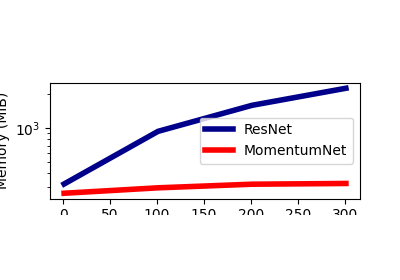
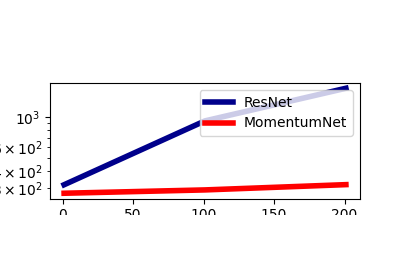
Generate Pelican site [ci skip]

diff --git a/searchindex.js b/searchindex.js
@@ -1,1 +1,1 @@
-Search.setIndex({docnames:["api","auto_examples/index","auto_examples/plot_dynamics_1D","auto_examples/plot_memory","auto_examples/sg_execution_times","generated/momentumnet.Mom","generated/momentumnet.MomentumMemory","generated/momentumnet.MomentumNet","index"],envversion:{"sphinx.domains.c":2,"sphinx.domains.changeset":1,"sphinx.domains.citation":1,"sphinx.domains.cpp":3,"sphinx.domains.index":1,"sphinx.domains.javascript":2,"sphinx.domains.math":2,"sphinx.domains.python":3,"sphinx.domains.rst":2,"sphinx.domains.std":2,"sphinx.ext.intersphinx":1,sphinx:56},filenames:["api.rst","auto_examples/index.rst","auto_examples/plot_dynamics_1D.rst","auto_examples/plot_memory.rst","auto_examples/sg_execution_times.rst","generated/momentumnet.Mom.rst","generated/momentumnet.MomentumMemory.rst","generated/momentumnet.MomentumNet.rst","index.rst"],objects:{"momentumnet.Mom":{__init__:[5,1,1,""]},"momentumnet.MomentumMemory":{__init__:[6,1,1,""]},"momentumnet.MomentumNet":{__init__:[7,1,1,""]},momentumnet:{Mom:[5,0,1,""],MomentumMemory:[6,0,1,""],MomentumNet:[7,0,1,""]}},objnames:{"0":["py","class","Python class"],"1":["py","method","Python method"]},objtypes:{"0":"py:class","1":"py:method"},terms:{"0":[2,3,4,5,7],"00":4,"01":2,"030":2,"04":4,"05":4,"053":2,"07870":8,"0x7fbc90578b30":[2,3],"1":[2,3,7,8],"100":[2,3],"1000":2,"102":4,"104":2,"1100":2,"112":2,"1200":2,"122":2,"124":2,"126":2,"130":2,"1300":2,"131":2,"135":2,"137":2,"138":2,"139":2,"1400":2,"143":2,"144":2,"15":2,"1500":2,"16":2,"1600":2,"162":2,"163":2,"164":2,"165":2,"169":2,"1700":2,"174":2,"1800":2,"1900":2,"1d":[1,4],"2":[2,3],"20":2,"200":2,"2000":2,"2001":2,"2021":8,"203":2,"205":[2,4],"2102":8,"26":[3,4],"3":2,"300":2,"301":2,"33":[2,4],"3f":2,"4":[2,3],"40":2,"400":2,"401":3,"5":[2,3],"50":3,"500":[2,3],"600":2,"700":2,"8":[2,3],"800":2,"830":2,"897":[3,4],"900":2,"95":2,"99":[2,3],"class":[0,5,6,7],"do":8,"float":2,"function":[2,3,5,7],"import":[2,3,8],"peyr\u00e9":8,"return":2,If:8,In:8,Then:8,To:8,__call__:[5,7],__init__:[5,6,7],__main__:3,__name__:3,_c:[2,3],ab:8,ablin:[2,3,8],accur:6,admin:8,all:1,anaconda:8,ani:8,append:3,appli:6,arang:[2,3],arg:6,arxiv:8,attribut:[5,6,7],author:[2,3],auto_exampl:4,auto_examples_jupyt:1,auto_examples_python:1,backward:[2,3],bbox_extra_artist:3,bbox_inch:3,blondel:8,both:[5,7],c:8,can:8,check:8,click:[2,3],cm:2,code:[1,2,3],color:[2,3],colormap:2,compar:[2,3],comput:8,consumpt:[1,4],cpu:3,cuda:3,cycler:2,d:[2,3],darkblu:3,def:[2,3],depend:8,depth:[2,3],devic:3,dirty_tensor:6,distribut:8,document:8,download:[1,2,3],dynam:[1,4],e:8,els:3,error:8,everyth:8,exampl:[2,3],execut:4,fals:[2,3,7],figsiz:[2,3],file:4,fine:8,first:8,flag:8,from:[2,3],full:[2,3],function_r:[2,3],gabriel:8,galleri:[2,3],gamma:[2,3,5,7],gca:2,gener:[1,2,3],gist_ncar:2,github:8,give:8,h:2,have:8,help:6,here:[2,3],hidden:[2,3],http:8,i:2,icml:8,init_funct:[5,7],init_spe:[2,3,5,7],initi:[5,6,7],input:2,intern:[5,7],invers:5,ipynb:[2,3],is_avail:3,isdir:[2,3],issu:8,item:2,itr:2,its:8,jet:2,jupyt:[1,2,3],kwarg:6,label:3,learn_gamma:[2,3,7],legend:3,librari:8,licens:[2,3],linear:[2,3],linewidth:3,linspac:2,log:3,loss:[2,3],lr:2,lw:2,make_data_1d:2,manual_se:[2,3],mark_shared_storag:6,materialize_grad:6,mathieu:8,matplotlib:[2,3,8],max:3,mb:4,mean:[2,3],mem_list_mom:3,mem_list_r:3,memori:[1,4],memory_profil:3,memory_theori:3,memory_usag:3,messag:8,metadata:6,method:[5,6,7],mib:3,michael:[2,3,8],minut:[2,3],mit:[2,3],mkdir:[2,3],modul:[5,7],mom:3,mom_net:[2,3],mom_net_dynamics_1d:2,momentum:[2,3],momentumnet:[2,3,8],n_iter:[2,3,7],n_plot:2,name:6,need:8,needs_input_grad:6,net:3,network:8,neural:8,next_funct:6,nn:[2,3,5,7],no_grad:2,non_differenti:6,none:[5,7],notebook:[1,2,3],np:[2,3],num_plot:2,numpi:[2,3,8],object:[2,3],optim:2,org:8,os:[2,3],otherwis:8,out:[2,3],output:2,path:[2,3],pdf:[2,3],picard:8,pierr:[2,3,8],pip:8,plot:[1,4],plot_dynamics_1d:[2,4],plot_memori:[3,4],plt:[2,3],pred:2,pred_:2,preds_r:2,print:2,privileg:8,proc:8,provid:8,py:[2,3,4],pyplot:[2,3],python:[1,2,3,8],rand:3,rang:2,recommend:8,red:3,register_hook:6,requires_grad:6,res_net:[2,3],res_net_dynamics_1d:2,residu:8,resnet:[2,3],run:[2,3],s:2,sander:[2,3,8],saved_tensor:6,saved_vari:6,savefig:[2,3],script:[2,3],scriptmodul:[5,7],second:[2,3],see:6,self:6,sequenti:[2,3],set_prop_cycl:2,sgd:2,share:[5,7],share_memori:[5,7],should:8,signatur:6,sourc:[1,2,3],sphinx:[1,2,3],state:[5,7],step:2,tanh:[2,3],tensor:2,thi:[2,3,8],tight:3,time:[2,3],to_sav:6,torch:[2,3,8],total:[2,3,4],toy_dataset:2,tracker:8,train:[2,3],type:6,upgrad:8,us:[3,8],used_mem:3,user:8,view:2,we:8,when:3,work:8,x:[2,3],x_:[2,3],x_axi:2,xlabel:[2,3],xtick:2,y_:3,ylabel:[2,3],you:8,yscale:3,ytick:2,zero:2,zero_grad:2,zip:1},titles:["API Documentation","Examples Gallery","Plotting the dynamics in 1D","Plotting memory consumptions","Computation times","momentumnet.Mom","momentumnet.MomentumMemory","momentumnet.MomentumNet","Momentum ResNets"],titleterms:{"1d":2,api:[0,8],bug:8,cite:8,comput:4,consumpt:3,document:0,dynam:2,exampl:1,figur:[2,3],fix:[2,3],galleri:1,instal:8,memori:3,mom:5,momentum:[0,8],momentummemori:6,momentumnet:[5,6,7],network:0,paramet:[2,3],plot:[2,3],random:[2,3],report:8,reproduc:[2,3],residu:0,resnet:8,seed:[2,3],simul:[2,3],time:4}})
+Search.setIndex({docnames:["api","auto_examples/index","auto_examples/plot_dynamics_1D","auto_examples/plot_memory","auto_examples/sg_execution_times","generated/momentumnet.Mom","generated/momentumnet.MomentumMemory","generated/momentumnet.MomentumNet","index"],envversion:{"sphinx.domains.c":2,"sphinx.domains.changeset":1,"sphinx.domains.citation":1,"sphinx.domains.cpp":3,"sphinx.domains.index":1,"sphinx.domains.javascript":2,"sphinx.domains.math":2,"sphinx.domains.python":3,"sphinx.domains.rst":2,"sphinx.domains.std":2,"sphinx.ext.intersphinx":1,sphinx:56},filenames:["api.rst","auto_examples/index.rst","auto_examples/plot_dynamics_1D.rst","auto_examples/plot_memory.rst","auto_examples/sg_execution_times.rst","generated/momentumnet.Mom.rst","generated/momentumnet.MomentumMemory.rst","generated/momentumnet.MomentumNet.rst","index.rst"],objects:{"momentumnet.Mom":{__init__:[5,1,1,""]},"momentumnet.MomentumMemory":{__init__:[6,1,1,""]},"momentumnet.MomentumNet":{__init__:[7,1,1,""]},momentumnet:{Mom:[5,0,1,""],MomentumMemory:[6,0,1,""],MomentumNet:[7,0,1,""]}},objnames:{"0":["py","class","Python class"],"1":["py","method","Python method"]},objtypes:{"0":"py:class","1":"py:method"},terms:{"0":[2,3,4,5,7],"00":4,"01":[2,4],"02":4,"030":2,"053":2,"07870":8,"0x7ff76f369b30":[2,3],"1":[2,3,7,8],"100":[2,3],"1000":2,"104":2,"1100":2,"112":2,"1200":2,"122":2,"124":2,"126":2,"130":2,"1300":2,"131":2,"133":[3,4],"135":2,"137":2,"138":2,"139":2,"1400":2,"143":2,"144":2,"15":2,"1500":2,"16":2,"1600":2,"162":2,"163":2,"164":2,"165":2,"169":2,"1700":2,"174":2,"1800":2,"1900":2,"1d":[1,4],"2":[2,3],"20":2,"200":2,"2000":2,"2001":2,"2021":8,"203":2,"2102":8,"28":[2,4],"29":4,"3":2,"300":[2,3],"301":2,"3f":2,"4":[2,3],"40":2,"400":2,"451":[2,4],"5":[2,3],"50":3,"500":[2,3],"584":4,"600":2,"700":2,"8":[2,3],"800":2,"830":2,"900":2,"95":2,"99":[2,3],"class":[0,5,6,7],"do":8,"float":2,"function":[2,3,5,7],"import":[2,3,8],"peyr\u00e9":8,"return":2,If:8,In:8,Then:8,To:8,__call__:[5,7],__init__:[5,6,7],__main__:3,__name__:3,_c:[2,3],ab:8,ablin:[2,3,8],accur:6,admin:8,all:1,anaconda:8,ani:8,append:3,appli:6,arang:[2,3],arg:6,arxiv:8,attribut:[5,6,7],author:[2,3],auto_exampl:4,auto_examples_jupyt:1,auto_examples_python:1,backward:[2,3],blondel:8,both:[5,7],c:8,can:8,check:8,click:[2,3],cm:2,code:[1,2,3],color:[2,3],colormap:2,compar:[2,3],comput:8,consumpt:[1,4],cpu:3,cuda:3,cycler:2,d:[2,3],darkblu:3,def:[2,3],depend:8,depth:[2,3],devic:3,dirty_tensor:6,distribut:8,document:8,download:[1,2,3],dynam:[1,4],e:8,els:3,error:8,everyth:8,exampl:[2,3],execut:4,fals:[2,3,7],figsiz:[2,3],file:4,fine:8,first:8,flag:8,from:[2,3],full:[2,3],function_r:[2,3],gabriel:8,galleri:[2,3],gamma:[2,3,5,7],gca:2,gener:[1,2,3],gist_ncar:2,github:8,give:8,h:2,have:8,help:6,here:[2,3],hidden:[2,3],http:8,i:2,icml:8,init_funct:[5,7],init_spe:[2,3,5,7],initi:[5,6,7],input:2,intern:[5,7],invers:5,ipynb:[2,3],is_avail:3,isdir:[2,3],issu:8,item:2,itr:2,its:8,jet:2,jupyt:[1,2,3],kwarg:6,label:3,learn_gamma:[2,3,7],legend:3,librari:8,licens:[2,3],linear:[2,3],linewidth:3,linspac:2,log:3,loss:[2,3],lr:2,lw:2,make_data_1d:2,manual_se:[2,3],mark_shared_storag:6,materialize_grad:6,mathieu:8,matplotlib:[2,3,8],max:3,mb:4,mean:[2,3],mem_list_mom:3,mem_list_r:3,memori:[1,4],memory_profil:3,memory_usag:3,messag:8,metadata:6,method:[5,6,7],mib:3,michael:[2,3,8],minut:[2,3],mit:[2,3],mkdir:[2,3],modul:[5,7],mom:3,mom_net:[2,3],mom_net_dynamics_1d:2,momentum:[2,3],momentumnet:[2,3,8],n_iter:[2,3,7],n_plot:2,name:6,need:8,needs_input_grad:6,net:3,network:8,neural:8,next_funct:6,nn:[2,3,5,7],no_grad:2,non_differenti:6,none:[5,7],notebook:[1,2,3],np:[2,3],num_plot:2,numpi:[2,3,8],object:[2,3],optim:2,org:8,os:[2,3],otherwis:8,out:[2,3],output:2,path:[2,3],pdf:2,pierr:[2,3,8],pip:8,plot:[1,4],plot_dynamics_1d:[2,4],plot_memori:[3,4],plt:[2,3],pred:2,pred_:2,preds_r:2,print:2,privileg:8,proc:8,provid:8,py:[2,3,4],pyplot:[2,3],python:[1,2,3,8],rand:3,rang:2,recommend:8,red:3,register_hook:6,requires_grad:6,res_net:[2,3],res_net_dynamics_1d:2,residu:8,resnet:[2,3],run:[2,3],s:2,sander:[2,3,8],saved_tensor:6,saved_vari:6,savefig:2,script:[2,3],scriptmodul:[5,7],second:[2,3],see:6,self:6,sequenti:[2,3],set_prop_cycl:2,sgd:2,share:[5,7],share_memori:[5,7],should:8,show:3,signatur:6,sourc:[1,2,3],sphinx:[1,2,3],state:[5,7],step:2,tanh:[2,3],tensor:2,thi:[2,3,8],time:[2,3],to_sav:6,torch:[2,3,8],total:[2,3,4],toy_dataset:2,tracker:8,train:[2,3],type:6,upgrad:8,us:[3,8],used_mem:3,user:8,view:2,we:8,when:3,work:8,x:[2,3],x_:[2,3],x_axi:2,xlabel:[2,3],xtick:2,y_:3,ylabel:[2,3],you:8,yscale:3,ytick:2,zero:2,zero_grad:2,zip:1},titles:["API Documentation","Examples Gallery","Plotting the dynamics in 1D","Plotting memory consumptions","Computation times","momentumnet.Mom","momentumnet.MomentumMemory","momentumnet.MomentumNet","Momentum ResNets"],titleterms:{"1d":2,api:[0,8],bug:8,cite:8,comput:4,consumpt:3,document:0,dynam:2,exampl:1,figur:[2,3],fix:[2,3],galleri:1,instal:8,memori:3,mom:5,momentum:[0,8],momentummemori:6,momentumnet:[5,6,7],network:0,paramet:[2,3],plot:[2,3],random:[2,3],report:8,reproduc:[2,3],residu:0,resnet:8,seed:[2,3],simul:[2,3],time:4}})

diff --git a/auto_examples/plot_memory.html b/auto_examples/plot_memory.html
@@ -145,13 +145,13 @@ to download the full example code</p>
 </pre></div>
 </div>
 <p class="sphx-glr-script-out">Out:</p>
-<div class="sphx-glr-script-out highlight-none notranslate"><div class="highlight"><pre><span></span>&lt;torch._C.Generator object at 0x7fbc90578b30&gt;
+<div class="sphx-glr-script-out highlight-none notranslate"><div class="highlight"><pre><span></span>&lt;torch._C.Generator object at 0x7ff76f369b30&gt;
 </pre></div>
 </div>
 </section>
 <section id="parameters-of-the-simulation">
 <h2>Parameters of the simulation<a class="headerlink" href="#parameters-of-the-simulation" title="Permalink to this headline">¶</a></h2>
-<div class="highlight-default notranslate"><div class="highlight"><pre><span></span><a href="https://numpy.org/doc/stable/reference/generated/numpy.ndarray.html#numpy.ndarray" title="numpy.ndarray" class="sphx-glr-backref-module-numpy sphx-glr-backref-type-py-class sphx-glr-backref-instance"><span class="n">Depths</span></a> <span class="o">=</span> <a href="https://numpy.org/doc/stable/reference/generated/numpy.arange.html#numpy.arange" title="numpy.arange" class="sphx-glr-backref-module-numpy sphx-glr-backref-type-py-function"><span class="n">np</span><span class="o">.</span><span class="n">arange</span></a><span class="p">(</span><span class="mi">1</span><span class="p">,</span> <span class="mi">401</span><span class="p">,</span> <span class="mi">100</span><span class="p">)</span>
+<div class="highlight-default notranslate"><div class="highlight"><pre><span></span><a href="https://numpy.org/doc/stable/reference/generated/numpy.ndarray.html#numpy.ndarray" title="numpy.ndarray" class="sphx-glr-backref-module-numpy sphx-glr-backref-type-py-class sphx-glr-backref-instance"><span class="n">Depths</span></a> <span class="o">=</span> <a href="https://numpy.org/doc/stable/reference/generated/numpy.arange.html#numpy.arange" title="numpy.arange" class="sphx-glr-backref-module-numpy sphx-glr-backref-type-py-function"><span class="n">np</span><span class="o">.</span><span class="n">arange</span></a><span class="p">(</span><span class="mi">1</span><span class="p">,</span> <span class="mi">300</span><span class="p">,</span> <span class="mi">100</span><span class="p">)</span>
 
 
 <a href="https://docs.python.org/3/library/functions.html#int" title="builtins.int" class="sphx-glr-backref-module-builtins sphx-glr-backref-type-py-class sphx-glr-backref-instance"><span class="n">hidden</span></a> <span class="o">=</span> <span class="mi">8</span>
@@ -213,15 +213,11 @@ to download the full example code</p>
     <a href="https://matplotlib.org/api/text_api.html#matplotlib.text.Text" title="matplotlib.text.Text" class="sphx-glr-backref-module-matplotlib-text sphx-glr-backref-type-py-class sphx-glr-backref-instance"><span class="n">y_</span></a> <span class="o">=</span> <a href="https://matplotlib.org/api/_as_gen/matplotlib.pyplot.ylabel.html#matplotlib.pyplot.ylabel" title="matplotlib.pyplot.ylabel" class="sphx-glr-backref-module-matplotlib-pyplot sphx-glr-backref-type-py-function"><span class="n">plt</span><span class="o">.</span><span class="n">ylabel</span></a><span class="p">(</span><span class="s2">&quot;Memory (MiB)&quot;</span><span class="p">)</span>
     <a href="https://matplotlib.org/api/text_api.html#matplotlib.text.Text" title="matplotlib.text.Text" class="sphx-glr-backref-module-matplotlib-text sphx-glr-backref-type-py-class sphx-glr-backref-instance"><span class="n">x_</span></a> <span class="o">=</span> <a href="https://matplotlib.org/api/_as_gen/matplotlib.pyplot.xlabel.html#matplotlib.pyplot.xlabel" title="matplotlib.pyplot.xlabel" class="sphx-glr-backref-module-matplotlib-pyplot sphx-glr-backref-type-py-function"><span class="n">plt</span><span class="o">.</span><span class="n">xlabel</span></a><span class="p">(</span><span class="s2">&quot;Depth&quot;</span><span class="p">)</span>
     <a href="https://matplotlib.org/api/_as_gen/matplotlib.pyplot.legend.html#matplotlib.pyplot.legend" title="matplotlib.pyplot.legend" class="sphx-glr-backref-module-matplotlib-pyplot sphx-glr-backref-type-py-function"><span class="n">plt</span><span class="o">.</span><span class="n">legend</span></a><span class="p">()</span>
-    <a href="https://matplotlib.org/api/_as_gen/matplotlib.pyplot.savefig.html#matplotlib.pyplot.savefig" title="matplotlib.pyplot.savefig" class="sphx-glr-backref-module-matplotlib-pyplot sphx-glr-backref-type-py-function"><span class="n">plt</span><span class="o">.</span><span class="n">savefig</span></a><span class="p">(</span>
-        <span class="s2">&quot;figures/memory_theory.pdf&quot;</span><span class="p">,</span>
-        <span class="n">bbox_inches</span><span class="o">=</span><span class="s2">&quot;tight&quot;</span><span class="p">,</span>
-        <span class="n">bbox_extra_artists</span><span class="o">=</span><span class="p">[</span><a href="https://matplotlib.org/api/text_api.html#matplotlib.text.Text" title="matplotlib.text.Text" class="sphx-glr-backref-module-matplotlib-text sphx-glr-backref-type-py-class sphx-glr-backref-instance"><span class="n">x_</span></a><span class="p">,</span> <a href="https://matplotlib.org/api/text_api.html#matplotlib.text.Text" title="matplotlib.text.Text" class="sphx-glr-backref-module-matplotlib-text sphx-glr-backref-type-py-class sphx-glr-backref-instance"><span class="n">y_</span></a><span class="p">],</span>
-    <span class="p">)</span>
+    <a href="https://matplotlib.org/api/_as_gen/matplotlib.pyplot.show.html#matplotlib.pyplot.show" title="matplotlib.pyplot.show" class="sphx-glr-backref-module-matplotlib-pyplot sphx-glr-backref-type-py-function"><span class="n">plt</span><span class="o">.</span><span class="n">show</span></a><span class="p">()</span>
 </pre></div>
 </div>
 <img alt="plot memory" class="sphx-glr-single-img" src="../_images/sphx_glr_plot_memory_001.png" />
-<p class="sphx-glr-timing"><strong>Total running time of the script:</strong> ( 4 minutes  26.897 seconds)</p>
+<p class="sphx-glr-timing"><strong>Total running time of the script:</strong> ( 2 minutes  1.133 seconds)</p>
 <div class="sphx-glr-footer class sphx-glr-footer-example docutils container" id="sphx-glr-download-auto-examples-plot-memory-py">
 <div class="sphx-glr-download sphx-glr-download-python docutils container">
 <p><a class="reference download internal" download="" href="../_downloads/151f4a6db04c03bd6e6ca68acb3408bf/plot_memory.py"><code class="xref download docutils literal notranslate"><span class="pre">Download</span> <span class="pre">Python</span> <span class="pre">source</span> <span class="pre">code:</span> <span class="pre">plot_memory.py</span></code></a></p>
@@ -238,7 +234,7 @@ to download the full example code</p>
 </div>
 
 <!-- Github "fork me" ribbon -->
-<a href="https://github.com/pierreablin/picard"><img style="position: absolute; top: 50px; right: 0; border: 0;" 
+<a href="https://github.com/michaelsdr/momentumnet"><img style="position: absolute; top: 50px; right: 0; border: 0;"
 src="https://camo.githubusercontent.com/652c5b9acfaddf3a9c326fa6bde407b87f7be0f4/68747470733a2f2f73332e616d617a6f6e6177732e636f6d2f6769746875622f726962626f6e732f666f726b6d655f72696768745f6f72616e67655f6666373630302e706e67"
 alt="Fork me on GitHub"
 data-canonical-src="https://s3.amazonaws.com/github/ribbons/forkme_right_orange_ff7600.png"></a>
@@ -249,7 +245,7 @@ data-canonical-src="https://s3.amazonaws.com/github/ribbons/forkme_right_orange_
       
     </p>
     <p>
-        &copy; Copyright 2017, Michael Sander.<br/>
+        &copy; Copyright 2021, Michael Sander.<br/>
       Created using <a href="http://sphinx-doc.org/">Sphinx</a> 4.0.2.<br/>
     </p>
   </div>

diff --git a/auto_examples/plot_dynamics_1D.html b/auto_examples/plot_dynamics_1D.html
@@ -143,7 +143,7 @@ to download the full example code</p>
 </pre></div>
 </div>
 <p class="sphx-glr-script-out">Out:</p>
-<div class="sphx-glr-script-out highlight-none notranslate"><div class="highlight"><pre><span></span>&lt;torch._C.Generator object at 0x7fbc90578b30&gt;
+<div class="sphx-glr-script-out highlight-none notranslate"><div class="highlight"><pre><span></span>&lt;torch._C.Generator object at 0x7ff76f369b30&gt;
 </pre></div>
 </div>
 </section>
@@ -342,7 +342,7 @@ itr 1900, loss = 0.144
 itr 2000, loss = 0.162
 </pre></div>
 </div>
-<p class="sphx-glr-timing"><strong>Total running time of the script:</strong> ( 0 minutes  33.205 seconds)</p>
+<p class="sphx-glr-timing"><strong>Total running time of the script:</strong> ( 0 minutes  28.451 seconds)</p>
 <div class="sphx-glr-footer class sphx-glr-footer-example docutils container" id="sphx-glr-download-auto-examples-plot-dynamics-1d-py">
 <div class="sphx-glr-download sphx-glr-download-python docutils container">
 <p><a class="reference download internal" download="" href="../_downloads/2feafad2d2b0f8e8ac83cdc48963b2de/plot_dynamics_1D.py"><code class="xref download docutils literal notranslate"><span class="pre">Download</span> <span class="pre">Python</span> <span class="pre">source</span> <span class="pre">code:</span> <span class="pre">plot_dynamics_1D.py</span></code></a></p>
@@ -359,7 +359,7 @@ itr 2000, loss = 0.162
 </div>
 
 <!-- Github "fork me" ribbon -->
-<a href="https://github.com/pierreablin/picard"><img style="position: absolute; top: 50px; right: 0; border: 0;" 
+<a href="https://github.com/michaelsdr/momentumnet"><img style="position: absolute; top: 50px; right: 0; border: 0;"
 src="https://camo.githubusercontent.com/652c5b9acfaddf3a9c326fa6bde407b87f7be0f4/68747470733a2f2f73332e616d617a6f6e6177732e636f6d2f6769746875622f726962626f6e732f666f726b6d655f72696768745f6f72616e67655f6666373630302e706e67"
 alt="Fork me on GitHub"
 data-canonical-src="https://s3.amazonaws.com/github/ribbons/forkme_right_orange_ff7600.png"></a>
@@ -370,7 +370,7 @@ data-canonical-src="https://s3.amazonaws.com/github/ribbons/forkme_right_orange_
       
     </p>
     <p>
-        &copy; Copyright 2017, Michael Sander.<br/>
+        &copy; Copyright 2021, Michael Sander.<br/>
       Created using <a href="http://sphinx-doc.org/">Sphinx</a> 4.0.2.<br/>
     </p>
   </div>

diff --git a/auto_examples/sg_execution_times.html b/auto_examples/sg_execution_times.html
@@ -111,7 +111,7 @@
   
   <section id="computation-times">
 <span id="sphx-glr-auto-examples-sg-execution-times"></span><h1>Computation times<a class="headerlink" href="#computation-times" title="Permalink to this headline">¶</a></h1>
-<p><strong>05:00.102</strong> total execution time for <strong>auto_examples</strong> files:</p>
+<p><strong>02:29.584</strong> total execution time for <strong>auto_examples</strong> files:</p>
 <table class="docutils align-default">
 <colgroup>
 <col style="width: 80%" />
@@ -120,11 +120,11 @@
 </colgroup>
 <tbody>
 <tr class="row-odd"><td><p><a class="reference internal" href="plot_memory.html#sphx-glr-auto-examples-plot-memory-py"><span class="std std-ref">Plotting memory consumptions</span></a> (<code class="docutils literal notranslate"><span class="pre">plot_memory.py</span></code>)</p></td>
-<td><p>04:26.897</p></td>
+<td><p>02:01.133</p></td>
 <td><p>0.0 MB</p></td>
 </tr>
 <tr class="row-even"><td><p><a class="reference internal" href="plot_dynamics_1D.html#sphx-glr-auto-examples-plot-dynamics-1d-py"><span class="std std-ref">Plotting the dynamics in 1D</span></a> (<code class="docutils literal notranslate"><span class="pre">plot_dynamics_1D.py</span></code>)</p></td>
-<td><p>00:33.205</p></td>
+<td><p>00:28.451</p></td>
 <td><p>0.0 MB</p></td>
 </tr>
 </tbody>
@@ -135,7 +135,7 @@
 </div>
 
 <!-- Github "fork me" ribbon -->
-<a href="https://github.com/pierreablin/picard"><img style="position: absolute; top: 50px; right: 0; border: 0;" 
+<a href="https://github.com/michaelsdr/momentumnet"><img style="position: absolute; top: 50px; right: 0; border: 0;"
 src="https://camo.githubusercontent.com/652c5b9acfaddf3a9c326fa6bde407b87f7be0f4/68747470733a2f2f73332e616d617a6f6e6177732e636f6d2f6769746875622f726962626f6e732f666f726b6d655f72696768745f6f72616e67655f6666373630302e706e67"
 alt="Fork me on GitHub"
 data-canonical-src="https://s3.amazonaws.com/github/ribbons/forkme_right_orange_ff7600.png"></a>
@@ -146,7 +146,7 @@ data-canonical-src="https://s3.amazonaws.com/github/ribbons/forkme_right_orange_
       
     </p>
     <p>
-        &copy; Copyright 2017, Michael Sander.<br/>
+        &copy; Copyright 2021, Michael Sander.<br/>
       Created using <a href="http://sphinx-doc.org/">Sphinx</a> 4.0.2.<br/>
     </p>
   </div>

diff --git a/index.html b/index.html
@@ -126,7 +126,7 @@ Otherwise, to install <code class="docutils literal notranslate"><span class="pr
 <div class="highlight-default notranslate"><div class="highlight"><pre><span></span>$ pip install numpy matplotlib torch
 </pre></div>
 </div>
-<p>Then install Picard:</p>
+<p>Then install momentumnet:</p>
 <div class="highlight-default notranslate"><div class="highlight"><pre><span></span>$ pip install momentumnet
 </pre></div>
 </div>
@@ -165,7 +165,7 @@ with <cite>pip</cite>. To upgrade, use the <code class="docutils literal notrans
 </div>
 
 <!-- Github "fork me" ribbon -->
-<a href="https://github.com/pierreablin/picard"><img style="position: absolute; top: 50px; right: 0; border: 0;" 
+<a href="https://github.com/michaelsdr/momentumnet"><img style="position: absolute; top: 50px; right: 0; border: 0;"
 src="https://camo.githubusercontent.com/652c5b9acfaddf3a9c326fa6bde407b87f7be0f4/68747470733a2f2f73332e616d617a6f6e6177732e636f6d2f6769746875622f726962626f6e732f666f726b6d655f72696768745f6f72616e67655f6666373630302e706e67"
 alt="Fork me on GitHub"
 data-canonical-src="https://s3.amazonaws.com/github/ribbons/forkme_right_orange_ff7600.png"></a>
@@ -176,7 +176,7 @@ data-canonical-src="https://s3.amazonaws.com/github/ribbons/forkme_right_orange_
       
     </p>
     <p>
-        &copy; Copyright 2017, Michael Sander.<br/>
+        &copy; Copyright 2021, Michael Sander.<br/>
       Created using <a href="http://sphinx-doc.org/">Sphinx</a> 4.0.2.<br/>
     </p>
   </div>

diff --git a/api.html b/api.html
@@ -155,7 +155,7 @@
 </div>
 
 <!-- Github "fork me" ribbon -->
-<a href="https://github.com/pierreablin/picard"><img style="position: absolute; top: 50px; right: 0; border: 0;" 
+<a href="https://github.com/michaelsdr/momentumnet"><img style="position: absolute; top: 50px; right: 0; border: 0;"
 src="https://camo.githubusercontent.com/652c5b9acfaddf3a9c326fa6bde407b87f7be0f4/68747470733a2f2f73332e616d617a6f6e6177732e636f6d2f6769746875622f726962626f6e732f666f726b6d655f72696768745f6f72616e67655f6666373630302e706e67"
 alt="Fork me on GitHub"
 data-canonical-src="https://s3.amazonaws.com/github/ribbons/forkme_right_orange_ff7600.png"></a>
@@ -166,7 +166,7 @@ data-canonical-src="https://s3.amazonaws.com/github/ribbons/forkme_right_orange_
       
     </p>
     <p>
-        &copy; Copyright 2017, Michael Sander.<br/>
+        &copy; Copyright 2021, Michael Sander.<br/>
       Created using <a href="http://sphinx-doc.org/">Sphinx</a> 4.0.2.<br/>
     </p>
   </div>

diff --git a/auto_examples/index.html b/auto_examples/index.html
@@ -144,7 +144,7 @@
 </div>
 
 <!-- Github "fork me" ribbon -->
-<a href="https://github.com/pierreablin/picard"><img style="position: absolute; top: 50px; right: 0; border: 0;" 
+<a href="https://github.com/michaelsdr/momentumnet"><img style="position: absolute; top: 50px; right: 0; border: 0;"
 src="https://camo.githubusercontent.com/652c5b9acfaddf3a9c326fa6bde407b87f7be0f4/68747470733a2f2f73332e616d617a6f6e6177732e636f6d2f6769746875622f726962626f6e732f666f726b6d655f72696768745f6f72616e67655f6666373630302e706e67"
 alt="Fork me on GitHub"
 data-canonical-src="https://s3.amazonaws.com/github/ribbons/forkme_right_orange_ff7600.png"></a>
@@ -155,7 +155,7 @@ data-canonical-src="https://s3.amazonaws.com/github/ribbons/forkme_right_orange_
       
     </p>
     <p>
-        &copy; Copyright 2017, Michael Sander.<br/>
+        &copy; Copyright 2021, Michael Sander.<br/>
       Created using <a href="http://sphinx-doc.org/">Sphinx</a> 4.0.2.<br/>
     </p>
   </div>

diff --git a/genindex.html b/genindex.html
@@ -142,7 +142,7 @@
 </div>
 
 <!-- Github "fork me" ribbon -->
-<a href="https://github.com/pierreablin/picard"><img style="position: absolute; top: 50px; right: 0; border: 0;" 
+<a href="https://github.com/michaelsdr/momentumnet"><img style="position: absolute; top: 50px; right: 0; border: 0;"
 src="https://camo.githubusercontent.com/652c5b9acfaddf3a9c326fa6bde407b87f7be0f4/68747470733a2f2f73332e616d617a6f6e6177732e636f6d2f6769746875622f726962626f6e732f666f726b6d655f72696768745f6f72616e67655f6666373630302e706e67"
 alt="Fork me on GitHub"
 data-canonical-src="https://s3.amazonaws.com/github/ribbons/forkme_right_orange_ff7600.png"></a>
@@ -153,7 +153,7 @@ data-canonical-src="https://s3.amazonaws.com/github/ribbons/forkme_right_orange_
       
     </p>
     <p>
-        &copy; Copyright 2017, Michael Sander.<br/>
+        &copy; Copyright 2021, Michael Sander.<br/>
       Created using <a href="http://sphinx-doc.org/">Sphinx</a> 4.0.2.<br/>
     </p>
   </div>

diff --git a/search.html b/search.html
@@ -133,7 +133,7 @@
 </div>
 
 <!-- Github "fork me" ribbon -->
-<a href="https://github.com/pierreablin/picard"><img style="position: absolute; top: 50px; right: 0; border: 0;" 
+<a href="https://github.com/michaelsdr/momentumnet"><img style="position: absolute; top: 50px; right: 0; border: 0;"
 src="https://camo.githubusercontent.com/652c5b9acfaddf3a9c326fa6bde407b87f7be0f4/68747470733a2f2f73332e616d617a6f6e6177732e636f6d2f6769746875622f726962626f6e732f666f726b6d655f72696768745f6f72616e67655f6666373630302e706e67"
 alt="Fork me on GitHub"
 data-canonical-src="https://s3.amazonaws.com/github/ribbons/forkme_right_orange_ff7600.png"></a>
@@ -144,7 +144,7 @@ data-canonical-src="https://s3.amazonaws.com/github/ribbons/forkme_right_orange_
       
     </p>
     <p>
-        &copy; Copyright 2017, Michael Sander.<br/>
+        &copy; Copyright 2021, Michael Sander.<br/>
       Created using <a href="http://sphinx-doc.org/">Sphinx</a> 4.0.2.<br/>
     </p>
   </div>

diff --git a/_downloads/151f4a6db04c03bd6e6ca68acb3408bf/plot_memory.py b/_downloads/151f4a6db04c03bd6e6ca68acb3408bf/plot_memory.py
@@ -36,7 +36,7 @@ torch.manual_seed(1)
 ##############################
 
 
-Depths = np.arange(1, 401, 100)
+Depths = np.arange(1, 300, 100)
 
 
 hidden = 8
@@ -98,8 +98,4 @@ if __name__ == "__main__":
     y_ = plt.ylabel("Memory (MiB)")
     x_ = plt.xlabel("Depth")
     plt.legend()
-    plt.savefig(
-        "figures/memory_theory.pdf",
-        bbox_inches="tight",
-        bbox_extra_artists=[x_, y_],
-    )
+    plt.show()
